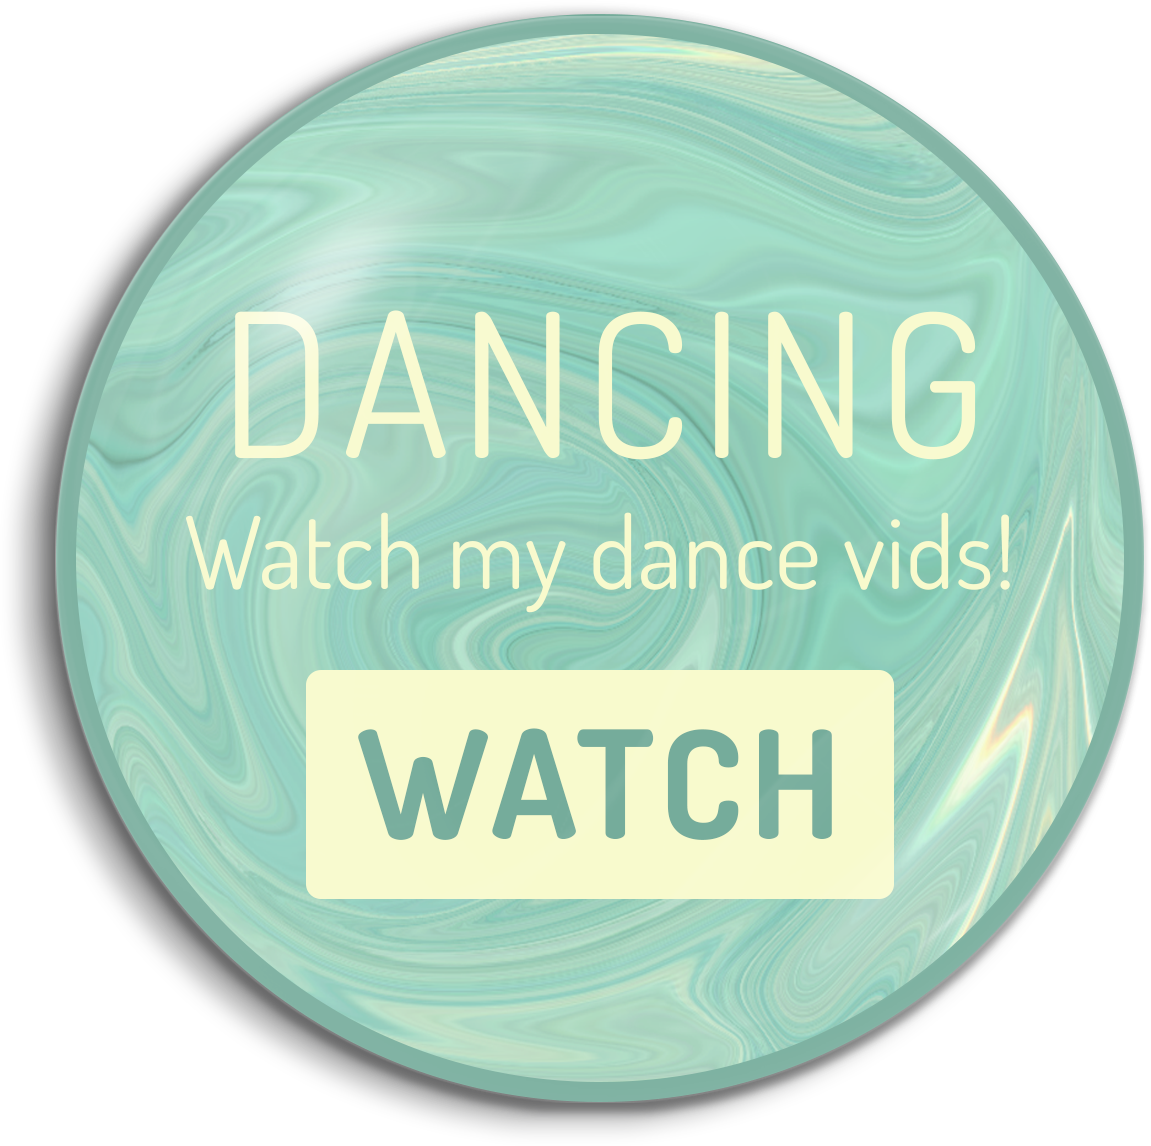
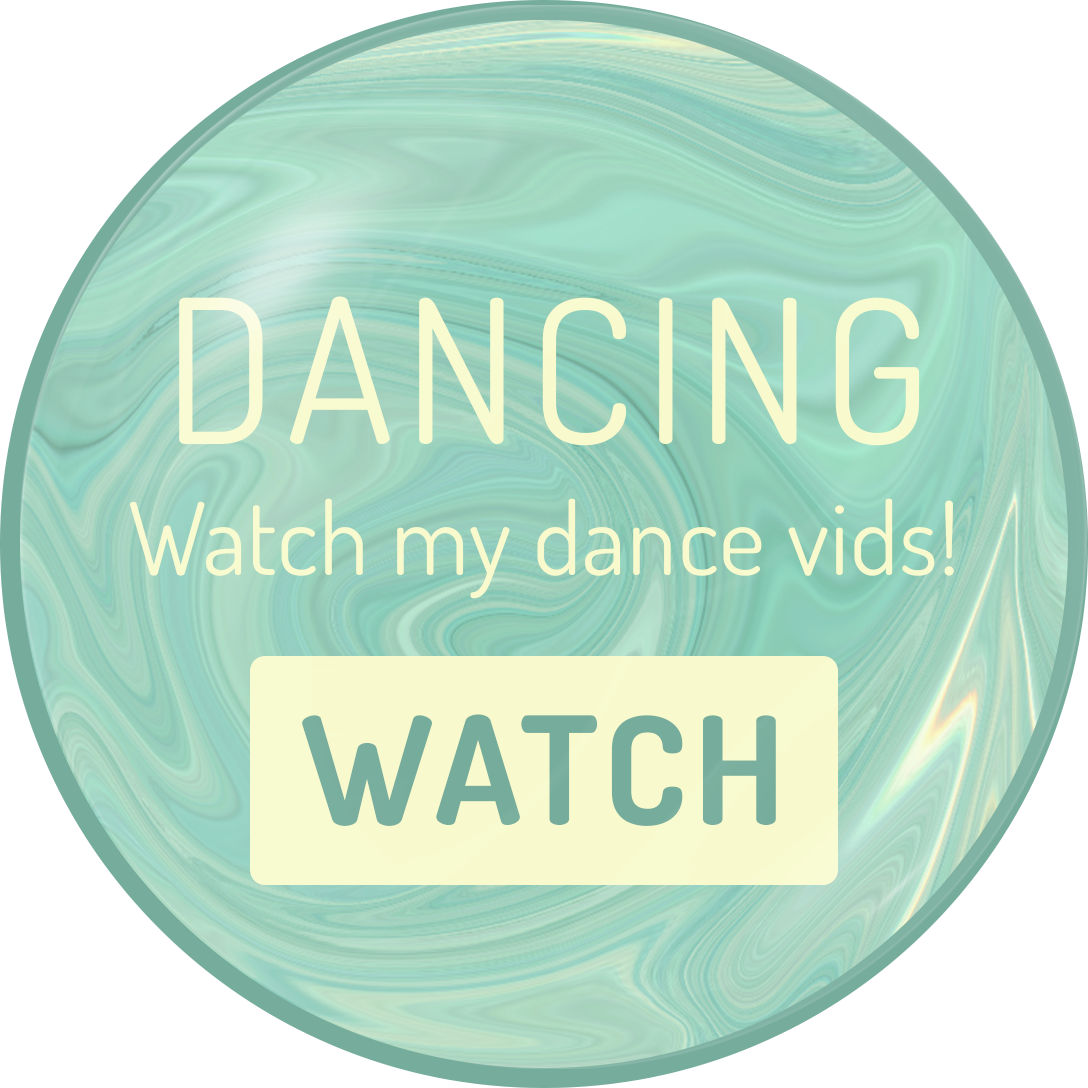
Button img changing on hover, naving on click

Changed region(s): [[0.0, 0.0, 1.0, 1.0], [0.9375, 0.2812, 0.9688, 0.3438], [0.7812, 0.1562, 0.8438, 0.1875]]

diff --git a/src/components/Home_Body.jsx b/src/components/Home_Body.jsx
@@ -1,21 +1,61 @@
 import React, { useState, useEffect } from 'react';
+import { useNavigate, Link } from 'react-router-dom';
 import {Container, Row, Col} from 'react-bootstrap';
-import DanceButton from '../Images/dancing-button.png'
-import WritingButton from '../Images/writing-button.png'
+import DanceBtn from '../Images/dancing-button.png'
+import DanceBtnHover from '../Images/dancing-hover.png'
+import DanceBtnClick from '../Images/dancing-hover-ds.png';
+import WritingBtn from '../Images/writing-button.png'
+import WritingBtnHover from '../Images/writing-hover.png'
+import WritingBtnClick from '../Images/writing-hover-ds.png'
+
 
 const Home_Body = () => {
+  const navigate = useNavigate();
+  const [writingHover, setWritingHover] = useState(false);
+  const [danceHover, setDanceHover] = useState(false);
+  const [writingClick, setWritingClick] = useState(false);
+  const [danceClick, setDanceClick] = useState(false);
+
+  const handleClick = (path) => {
+    button === 'writing' ? setWritingClick(true) : setDanceClick(true)
+    navigate(`/${path}`)
+  }
+
+  const handleMouseEnter = (button) => {
+   button === 'writing' ? setWritingHover(true) : setDanceHover(true)
+  };
+
+  const handleMouseLeave = (button) => {
+    button === 'writing' ? setWritingHover(false) : setDanceHover(false)
+  };
+
+  const DanceBtnSrc = danceHover? DanceBtnHover : DanceBtn
+  const WritingBtnSrc = writingHover? WritingBtnHover : WritingBtn
 
   return (
     <Container fluid>
     <Row className="d-flex align-items-center justify-content-center py-2 px-4">
       <Col sm={4} md={4} xs={4} className="text-left">
         <div className="button-box">
-        <img className="img-fluid button" src={WritingButton} />
+        <img
+        className="img-fluid button"
+        src={WritingBtnSrc}
+        onMouseEnter={() => handleMouseEnter("writing")}
+        onMouseLeave={() => handleMouseLeave("writing")}
+        onClick={(e)=>handleClick('writing')}
+        />
         </div>
       </Col>
       <Col sm={4} md={4} xs={4} className="text-right">
         <div className="button-box">
-        <img className="img-fluid button" src={DanceButton} />
+        <img
+        className="img-fluid button"
+        src={DanceBtnSrc}
+         onMouseEnter={() => handleMouseEnter("dance")}
+         onMouseLeave={() => handleMouseLeave("dance")}
+         onClick={(e)=>handleClick('dance')}
+         />
+
         </div>
       </Col>
     </Row>

diff --git a/src/components/Home_Test.jsx b/src/components/Home_Test.jsx
@@ -1,8 +1,6 @@
 import React from 'react';
 import Header from './header/Header.jsx';
 import Header_Test from './header/Header_Test.jsx'
-// import ArrowDownLeft from './ArrowDownLeft.jsx';
-// import ArrowDownRight from './ArrowDownRight.jsx';
 import WritingContainer from './writing/WritingContainer.jsx';
 import DanceContainer from './dance/DanceContainer.jsx';
 import SinglePage from './pdf/single-page.js';
@@ -13,11 +11,6 @@ import Home_Body from './Home_Body.jsx'
 
 import ReactPDF from '@react-pdf/renderer';
 import { pdfjs } from 'react-pdf';
-
-// pdfjs.GlobalWorkerOptions.workerSrc = new URL(
-//   'pdfjs-dist/build/pdf.worker.min.js',
-//   import.meta.url,
-// ).toString();
 
 pdfjs.GlobalWorkerOptions.workerSrc = `//unpkg.com/pdfjs-dist@${pdfjs.version}/build/pdf.worker.min.js`;
 

diff --git a/src/components/Home.jsx b/src/components/Home.jsx
@@ -19,7 +19,7 @@ pdfjs.GlobalWorkerOptions.workerSrc = `//unpkg.com/pdfjs-dist@${pdfjs.version}/b
 
 const Home = (props) => {
   return (
-    <div className="outer-container">
+    <div className="outer-container container">
       <div className="header-container">
         {/* <div className="header"> */}
         <img src={Banner} className='header' alt='Responsive image'></img>
